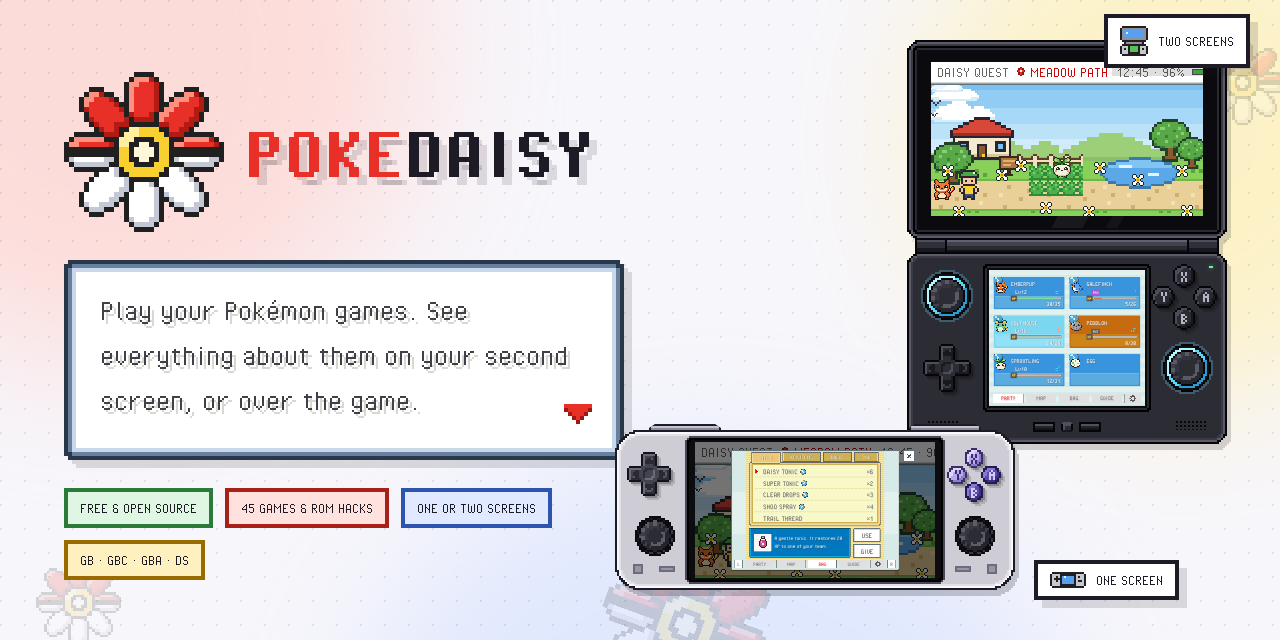
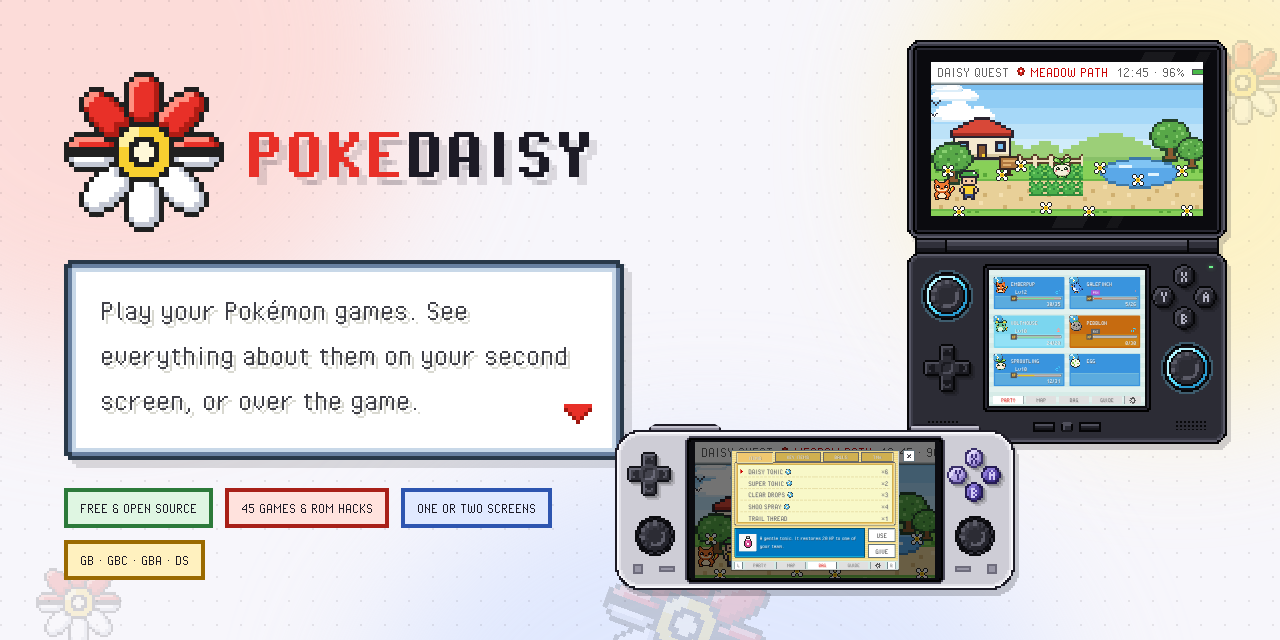
Website: drop the hero's device labels, fill the companion window
The TWO SCREENS / ONE SCREEN tags are gone from the hero and the cover.

In the one-screen window the companion's panes stretch across its wider canvas
instead of sitting in its middle between grey bands: party slots, the summary,
the bag's list and description take the width; the map keeps its shape in the
middle with the sea carried on past its sides. The tab bar now sits below the
panes with a gap. The window's classes are cwin*, apart from the app's .win.

diff --git a/website/src/lib/pixel.js b/website/src/lib/pixel.js
@@ -5,7 +5,7 @@
 
 import { CREATURES } from './creatures.js';
 import { HANDHELD_SPRITES } from './handheld.js';
-import { regionMapSprite } from './regionmap.js';
+import { regionMapSprite, seaSprite } from './regionmap.js';
 
 const INK = '#202020';
 
@@ -747,6 +747,7 @@ SPRITES.logo = daisyBall(32);
 for (const [id, c] of Object.entries(CREATURES)) SPRITES[id] = { pal: c.pal, rows: c.rows };
 Object.assign(SPRITES, HANDHELD_SPRITES);
 SPRITES.regionMap = regionMapSprite();
+SPRITES.sea = seaSprite();
 // The MAP tab's player: the walker's head, as the region map marks where you are.
 SPRITES.mapHead = { pal: SPRITES.walker.pal, rows: SPRITES.walker.rows.slice(0, 8) };
 

diff --git a/website/src/lib/regionmap.js b/website/src/lib/regionmap.js
@@ -132,6 +132,17 @@ function pixel(px, py) {
   return (px * 7 + py * 3) % 11 === 0 ? 'G' : 'g';
 }
 
+/** The open sea alone, one period of its wave lines (10 x 12): the MAP pane's backdrop past the map's sides. */
+export function seaSprite() {
+  const rows = [];
+  for (let y = 0; y < 12; y++) {
+    let row = '';
+    for (let x = 0; x < 10; x++) row += (y % 6 === 2 && (x + (y % 12 === 2 ? 0 : 5)) % 10 < 3) ? 'w' : '~';
+    rows.push(row);
+  }
+  return { pal: PAL, rows };
+}
+
 export function regionMapSprite() {
   const w = TILES[0].length * T;
   const h = TILES.length * T;
